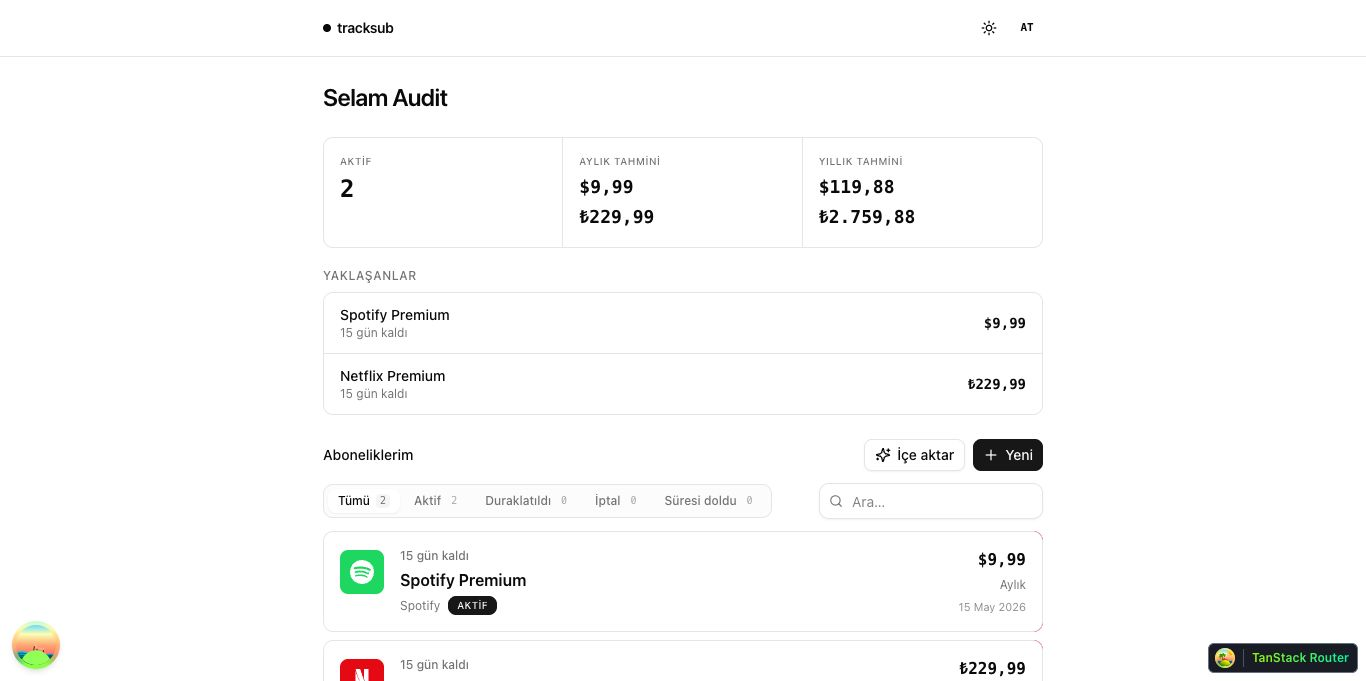
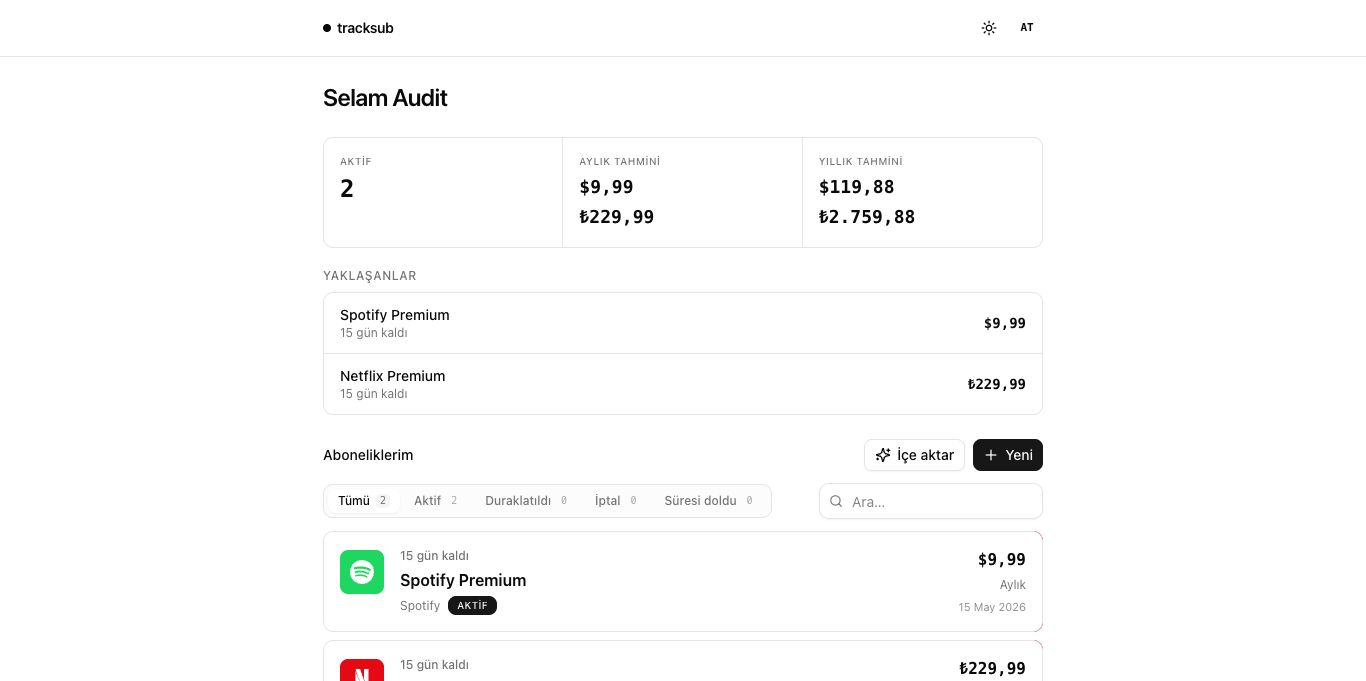
chore(web): tanstack devtools'lari kaldir ve ss'i guncelle

Changed region(s): [[0.8609, 0.9251, 1.0, 1.0], [0.0, 0.8943, 0.0615, 0.9868]]

diff --git a/apps/web/src/routes/__root.tsx b/apps/web/src/routes/__root.tsx
@@ -1,38 +1,10 @@
 import { Outlet, createRootRouteWithContext } from '@tanstack/react-router';
-import { Suspense, lazy } from 'react';
 import type { RouterContext } from '@/router';
-
-// Devtools'u sadece dev'de yükle (lazy + tree-shake).
-const TanStackRouterDevtools =
-  process.env.NODE_ENV === 'production'
-    ? () => null
-    : lazy(() =>
-        import('@tanstack/react-router-devtools').then((m) => ({
-          default: m.TanStackRouterDevtools,
-        })),
-      );
-
-const ReactQueryDevtools =
-  process.env.NODE_ENV === 'production'
-    ? () => null
-    : lazy(() =>
-        import('@tanstack/react-query-devtools').then((m) => ({
-          default: m.ReactQueryDevtools,
-        })),
-      );
 
 export const Route = createRootRouteWithContext<RouterContext>()({
   component: RootLayout,
 });
 
 function RootLayout() {
-  return (
-    <>
-      <Outlet />
-      <Suspense fallback={null}>
-        <TanStackRouterDevtools position="bottom-right" />
-        <ReactQueryDevtools buttonPosition="bottom-left" />
-      </Suspense>
-    </>
-  );
+  return <Outlet />;
 }
